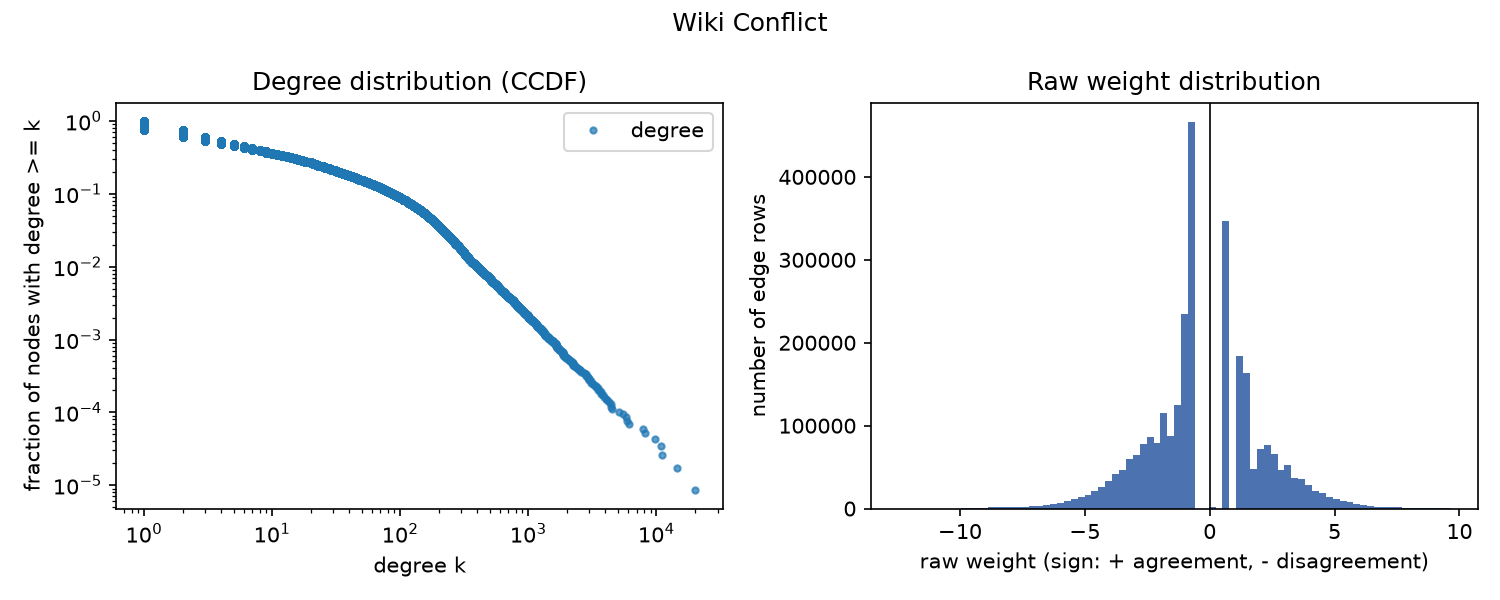
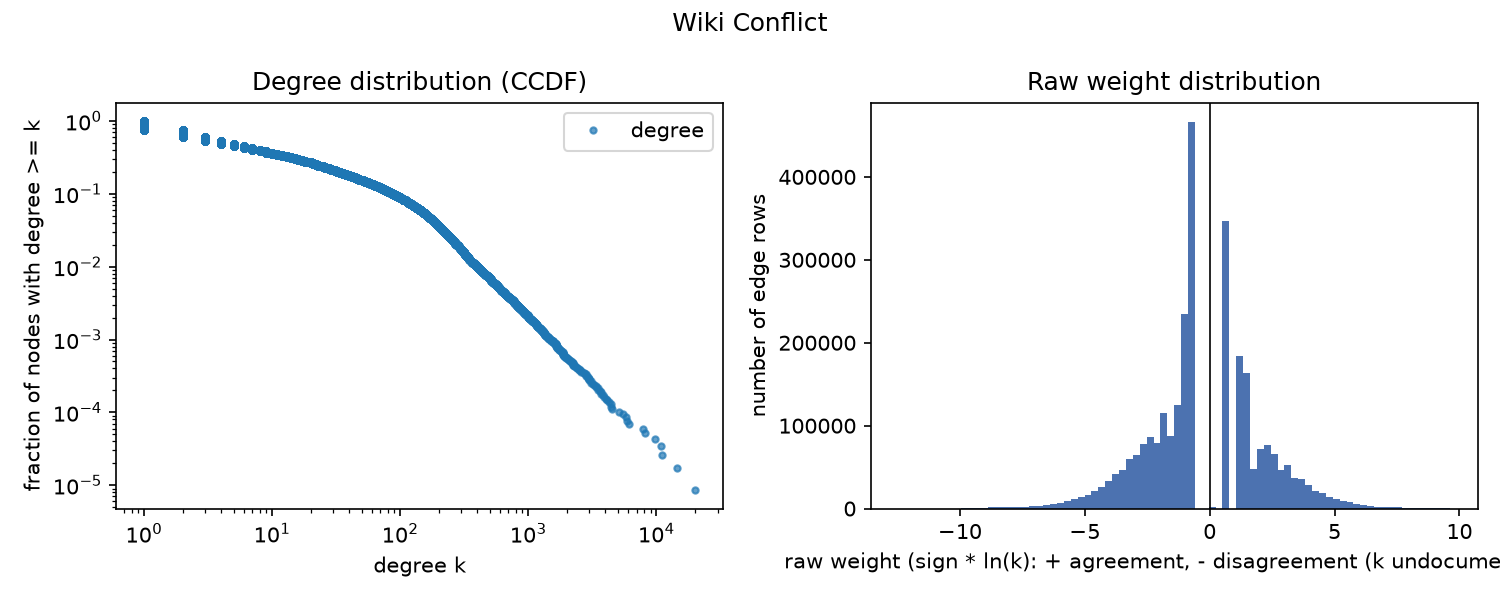
Phase 2: Slashdot Zoo loader, decisions D4/D4b (friends only, hops)
- Data from Netzschleuder CSV (same source graph-tool's collection.ns uses),
  read directly from the checksummed zip; SOURCES.md records why
- 4,497 mutual-foe pairs = negative 2-cycles, raw +-1 weights unusable
- D4: keep friend tags only, length 1, direction kept; D4b: drop users with
  no friend tags (79,120 -> 69,995)
- describe script: in-degree table for directed graphs, dataset-specific
  weight axis label; results for slashdot
- CLAUDE.md: verified scale for the two large datasets

Changed region(s): [[0.5213, 0.9, 1.0, 0.96]]

diff --git a/tests/test_preprocess.py b/tests/test_preprocess.py
@@ -4,8 +4,8 @@ import numpy as np
 import pytest
 
 from apsp.loaders import Dataset
-from apsp.preprocess import (drop_isolated, inverse_weights, load_processed, save_processed,
-                            undirected_hops)
+from apsp.preprocess import (drop_isolated, friends_only_hops, inverse_weights, load_processed,
+                            save_processed, undirected_hops)
 from apsp.scipy_tier import apsp_dijkstra_scipy, edges_to_csr
 
 
@@ -72,3 +72,17 @@ def test_hops_graph_runs_through_dijkstra_without_negative_weights():
     out = undirected_hops(drop_isolated(tiny_signed_undirected()))
     dist = apsp_dijkstra_scipy(edges_to_csr(out.n, list(zip(out.u, out.v, out.w))))
     assert dist[0].tolist() == [0, 1, 2, 3]  # 0 -1- 1 -1- 2 -1- 3
+
+
+# --- Slashdot decisions (D4, D4b) ------------------------------------------------------------------
+
+def test_friends_only_removes_foes_and_mutual_foe_cycle():
+    # 0 <-> 1 mutual foes (a negative 2-cycle), 1 -> 2 friend, 2 -> 3 friend, 3 -> 4 foe.
+    ds = Dataset("sd-mini", 5, u=np.array([0, 1, 1, 2, 3]), v=np.array([1, 0, 2, 3, 4]),
+                 w=np.array([-1.0, -1.0, 1.0, 1.0, -1.0]), directed=True, weight_meaning="+-1")
+    out = drop_isolated(friends_only_hops(ds))
+    # Only 1 -> 2 -> 3 survives; nodes 0 and 4 had only foe tags and are dropped (D4b).
+    assert out.n == 3 and out.directed and (out.w == 1).all()
+    dist = apsp_dijkstra_scipy(edges_to_csr(out.n, list(zip(out.u, out.v, out.w))))
+    assert dist[0].tolist() == [0, 1, 2]  # direction kept: forward chain reachable...
+    assert dist[2, 0] == np.inf  # ...but not backwards

diff --git a/src/apsp/loaders.py b/src/apsp/loaders.py
@@ -4,6 +4,7 @@ Turning raw weights into distances is a modeling decision (see CLAUDE.md, open d
 happens later, in preprocessing, never inside a loader.
 """
 
+import zipfile
 from dataclasses import dataclass
 from pathlib import Path
 
@@ -93,4 +94,27 @@ def load_wikiconflict(raw_dir=RAW_DIR):
         directed=False,
         weight_meaning="sign * ln(k): + agreement, - disagreement (k undocumented)",
         source="http://konect.cc/networks/wikiconflict",
+    )
+
+
+def load_slashdot(raw_dir=RAW_DIR):
+    """Slashdot Zoo friend/foe network (Netzschleuder slashdot_zoo = KONECT slashdot-zoo), RAW.
+
+    Directed: u -> v means "u tagged v". Weight +1 = friend, -1 = foe. Ids are already 0-based.
+    Read straight from the downloaded zip (its SHA-256 is in data/SOURCES.md), so the loader does
+    not depend on an unzipped copy.
+    """
+    path = Path(raw_dir) / "slashdot_zoo" / "slashdot_zoo.csv.zip"
+    with zipfile.ZipFile(path) as zf, zf.open("edges.csv") as f:
+        df = pd.read_csv(f, comment="#", header=None, names=["u", "v", "w"],
+                         dtype={"u": np.int64, "v": np.int64, "w": float})
+    return Dataset(
+        name="Slashdot Zoo",
+        n=79_120,  # Netzschleuder num_vertices; 4 ids have no edges
+        u=df["u"].to_numpy(),
+        v=df["v"].to_numpy(),
+        w=df["w"].to_numpy(),
+        directed=True,
+        weight_meaning="+1 friend, -1 foe",
+        source="https://networks.skewed.de/net/slashdot_zoo/files/slashdot_zoo.csv.zip",
     )

diff --git a/src/apsp/preprocess.py b/src/apsp/preprocess.py
@@ -8,7 +8,8 @@ from pathlib import Path
 
 import numpy as np
 
-from apsp.loaders import Dataset, compact_ids, load_usairport, load_wikiconflict
+from apsp.loaders import (Dataset, compact_ids, load_slashdot, load_usairport,
+                          load_wikiconflict)
 
 PROCESSED_DIR = Path(__file__).resolve().parents[2] / "data" / "processed"
 
@@ -47,6 +48,16 @@ def inverse_weights(ds):
     return replace(ds, w=1.0 / ds.w, weight_meaning=f"1 / ({ds.weight_meaning})")
 
 
+def friends_only_hops(ds):
+    """Decision D4: keep only positive ("friend") edges, each of length 1, direction kept.
+
+    Foe edges are removed entirely, so no negative weights (and no negative cycles) remain.
+    """
+    keep = ds.w > 0
+    return replace(ds, u=ds.u[keep], v=ds.v[keep], w=np.ones(int(keep.sum())),
+                   weight_meaning="hops along friend tags (foe tags removed)")
+
+
 def save_processed(ds, slug, folder=PROCESSED_DIR):
     """Save a processed Dataset as a compressed .npz (exact float64 values, fast to reload)."""
     folder = Path(folder)
@@ -74,6 +85,7 @@ def load_processed(slug, folder=PROCESSED_DIR):
 PIPELINES = {
     "usairport": (load_usairport, [inverse_weights]),  # D1
     "wikiconflict": (load_wikiconflict, [drop_isolated, undirected_hops]),  # D2b, then D2 + D3
+    "slashdot": (load_slashdot, [friends_only_hops, drop_isolated]),  # D4, then D4b
 }
 
 

diff --git a/scripts/describe_dataset.py b/scripts/describe_dataset.py
@@ -67,6 +67,12 @@ def describe_one(slug):
         table["negative share"] = [f"{share[i]:.0%}" for i in top]
     print("\nMost connected nodes:")
     print(table.to_string())
+    if ds.directed:
+        in_deg = np.bincount(adj.indices, minlength=ds.n)
+        top_in = np.argsort(-in_deg)[:10]
+        print("\nMost pointed-to nodes:")
+        print(pd.DataFrame({"node": names[top_in], "in-degree": in_deg[top_in]},
+                           index=range(1, 11)).to_string())
 
     # --- Figure ---------------------------------------------------------------------------------
     fig, axes = plt.subplots(1, 2, figsize=(10, 4))
@@ -85,7 +91,7 @@ def describe_one(slug):
     else:
         axes[1].hist(raw.w, bins=80, color="#4c72b0")
         axes[1].axvline(0, color="black", linewidth=0.8)
-        axes[1].set(xlabel="raw weight (sign: + agreement, - disagreement)")
+        axes[1].set(xlabel=f"raw weight ({raw.weight_meaning})")
     axes[1].set(ylabel="number of edge rows", title="Raw weight distribution")
     fig.suptitle(ds.name)
     fig.tight_layout()

diff --git a/tests/test_characteristics.py b/tests/test_characteristics.py
@@ -4,7 +4,8 @@ import numpy as np
 import pytest
 
 from apsp.characteristics import describe
-from apsp.loaders import RAW_DIR, Dataset, compact_ids, load_usairport, load_wikiconflict
+from apsp.loaders import (RAW_DIR, Dataset, compact_ids, load_slashdot, load_usairport,
+                          load_wikiconflict)
 
 
 def test_compact_ids_uses_first_appearance_order():
@@ -57,3 +58,11 @@ def test_wikiconflict_raw_counts():
     ds = load_wikiconflict()
     assert ds.n == 118_100 and len(ds.u) == 2_917_785  # matches KONECT website, not the stale header
     assert (ds.u < ds.v).all()  # each undirected pair stored once
+
+
+@pytest.mark.skipif(not (RAW_DIR / "slashdot_zoo" / "slashdot_zoo.csv.zip").exists(),
+                    reason="raw Slashdot Zoo data not downloaded")
+def test_slashdot_raw_counts():
+    ds = load_slashdot()
+    assert ds.n == 79_120 and len(ds.u) == 515_397  # Netzschleuder num_vertices / num_edges
+    assert set(np.unique(ds.w).tolist()) == {-1.0, 1.0}

diff --git a/docs/decisions.md b/docs/decisions.md
@@ -126,3 +126,61 @@ routes are not nodes).
 
 Under D2, any number of interactions between the same two editors (up to 562 for one pair) becomes
 **one** edge of length 1. The 2,917,785 interaction rows become 2,027,871 edges.
+
+---
+
+## D4. Slashdot Zoo: friends only, distance = hops (decided 2026-10-12)
+
+### What we chose
+Keep only **friend** tags (+1). Remove all **foe** tags (-1). Each friend tag "A -> B" becomes a
+one-way edge of length 1, **direction kept** (A calling B a friend does not mean B calls A a friend).
+The shortest path from A to B is the fewest "friend of a friend of ..." steps from A to B.
+
+### Plain-language explanation
+On Slashdot, users tag other users as **friend** or **foe**. In the raw data a friend tag is +1 and a
+foe tag is -1. We cannot use those numbers as distances:
+
+- **A foe tag is not a "negative distance".** Disliking someone does not bring you closer than zero.
+- **Negative loops exist.** 4,497 pairs of users tag *each other* as foes. Going A -> B -> A then
+  costs -1 + -1 = -2, and every extra lap lowers it further, so "shortest" has no answer. (Johnson's
+  algorithm, which handles some negative edges, needs the graph to have no negative loops, so it
+  does not apply.)
+
+We keep the friend tags because they have a clear meaning: a path is a chain of people who vouch
+for the next person, like "a friend of a friend of a friend". A short path means two users are
+close in the network of goodwill. Foe tags express the opposite, so they do not belong in a chain
+of friendships, and we leave them out.
+
+### Alternatives considered
+| Option | Why not chosen |
+|---|---|
+| Raw +1 / -1 weights | 4,497 negative 2-cycles, so shortest paths are undefined |
+| Hops on all tags, ignoring sign (the Wiki Conflict rule, D2) | treats "foe" as a connection like "friend"; the friend-only network has a clearer meaning |
+| Foes only | keeps just 24% of tags; "chains of hostility" are hard to interpret |
+
+### Consequences (must be discussed in the report)
+- **Different rule from Wiki Conflict.** Wiki Conflict (D2) keeps every interaction and ignores the
+  sign; Slashdot keeps only friend tags. The report should state this and the reason: in Slashdot
+  the sign marks the relationship itself (friend vs foe), while in Wiki Conflict both kinds of
+  interaction show that two editors worked on the same text.
+- **Smaller graph:** 123,218 foe tags removed (24% of edges), leaving 392,179 friend tags.
+- **Low reachability:** only 36.3% of ordered user pairs are connected by a chain of friend tags,
+  mostly because 41% of the remaining users never tagged anyone as a friend.
+- **All weights are 1,** so the BFS note from D2 applies: BFS would be the optimal single-source
+  algorithm, and we time genuine Dijkstra for a like-for-like comparison.
+- **Floyd-Warshall is infeasible:** a 69,995 x 69,995 table is about 36.5 GiB, more than the 24 GiB
+  of RAM on the benchmark machine.
+
+## D4b. Slashdot Zoo: drop users with no friend tags (decided 2026-10-12)
+
+The D2b rule (keep only nodes with at least one edge), applied **after** removing foe tags.
+4 users have no tags at all, and 9,121 users had only foe tags, so they have no edges left in the
+friend network. All 9,125 are dropped: **n = 79,120 -> 69,995**.
+
+*Plain language:* someone who only ever tagged (or was tagged by) foes has no friendship links, so
+they cannot appear in any friend chain. Keeping them would only add empty rows to the distance table.
+
+### Observation for the report (not a decision)
+The out-degree distribution drops sharply near 200 tags, and a handful of users sit at about 400
+(max 426). This looks like a **site limit** on how many users one person could tag. We have not found
+a source that confirms it.

diff --git a/CLAUDE.md b/CLAUDE.md
@@ -65,7 +65,7 @@ Add to this list as soon as a new case is found.
   the report is genuine Dijkstra.
 - Our pure FW skips the inner j loop when dist[i][k] is inf (same result, fewer operations on sparse
   reachability). Still Theta(n^3) in the worst case.
-- Unit-weight graphs (Wiki Conflict under D2): BFS would be the optimal single-source algorithm there.
+- Unit-weight graphs (Wiki Conflict under D2, Slashdot under D4): BFS would be the optimal single-source algorithm there.
   We deliberately time genuine Dijkstra anyway, to keep the comparison with FW like-for-like.
 - Undirected graphs are stored as two one-way edges per pair; m in complexity formulas = one-way count.
 - If Johnson's algorithm is ever used (negative edges, no negative cycles), it is Bellman-Ford +
@@ -79,8 +79,9 @@ Decided items are logged in `docs/decisions.md` (with a plain-language explanati
 
 - [x] Wiki Conflict: hops (all weights 1), one undirected edge per editor pair, isolated ids dropped
       (n = 116,836). D2, D2b, D3 in docs/decisions.md.
-- [ ] Slashdot Zoo (signed, DIRECTED): check for negative cycles first; candidates are hops (same as
-      Wiki Conflict, for consistency), positive-only, or Johnson's algorithm if no negative cycles.
+- [x] Slashdot Zoo: friends only, hops, direction kept; users without friend tags dropped
+      (n = 69,995). 4,497 mutual-foe pairs = negative 2-cycles, so raw weights were unusable.
+      D4, D4b in docs/decisions.md.
 - [x] US Airports: distance = 1 / passengers; nodes = the 1,574 airports with routes (D1 in docs/decisions.md).
 - [ ] Strength-type weights (Advogato, Adolescent Health): raw, 1/w, -log w, or unweighted?
 - [ ] Directed vs undirected treatment per dataset (keep native direction unless decided otherwise).
@@ -122,8 +123,8 @@ requirements-lock.txt  exact installed versions (what we actually ran; from `pip
   extensions allocate outside Python's tracker.
 - `resource.getrusage(...).ru_maxrss` is in BYTES on macOS but KiB on Linux. Normalize by platform.
   psutil does not expose peak RSS on macOS; use it for total RAM (`psutil.virtual_memory().total`) instead.
-- Expected scale (verify in Phase 2): Slashdot Zoo ~79k nodes, Wiki Conflict ~118k nodes. A dense n×n
-  float64 matrix is then ~50–110 GB, so FW is infeasible there and Dijkstra must stream
+- Verified scale (processed): Slashdot n = 69,995 (n×n float64 = 36.5 GiB), Wiki Conflict n = 116,836
+  (101.7 GiB). Benchmark machine has 24 GiB, so FW is infeasible on both and Dijkstra must stream
   (e.g. batches of sources via the `indices=` argument of `csgraph.dijkstra`).
 
 ## Commands

diff --git a/data/SOURCES.md b/data/SOURCES.md
@@ -47,3 +47,28 @@ Notes (verified 2026-10-12):
   on KONECT or Netzschleuder. Original study: Brandes, Kenis, Lerner, van Raaij (2009), "Network
   Analysis of Collaboration Structure in Wikipedia", WWW 2009, pp. 731-740.
 - **Zero weights:** 0.1% of rows have w = 0 (k = 1, ln 1 = 0), so their sign is lost.
+
+## Slashdot Zoo (`data/raw/slashdot_zoo/`)
+
+The user pointed to graph-tool's `gt.collection.ns["slashdot_zoo"]`. That call downloads from
+Netzschleuder, so we downloaded the same network directly from Netzschleuder as CSV instead of
+installing graph-tool (which is not pip-installable). Same data, pure-pip environment.
+
+| File | Source | SHA-256 |
+|---|---|---|
[4 lines of base64/hex data omitted]
+
+Metadata: https://networks.skewed.de/api/net/slashdot_zoo. Original: KONECT slashdot-zoo;
+J. Kunegis, A. Lommatzsch, C. Bauckhage (2009), "The Slashdot Zoo: Mining a Social Network with
+Negative Edges", WWW 2009, pp. 741-750.
+
+Notes (verified 2026-10-12):
+- **Directed:** A -> B means "A marked B". Ids are already 0-based, 0..79,119.
+- **Size:** 515,397 rows, matching Netzschleuder's num_edges. No self-loops, no duplicate rows.
+- **Weights:** +1 = friend (392,179 rows), -1 = foe (123,218 rows).
+- **Nodes:** 79,120 ids; 79,116 appear in an edge (4 have no edges).
+- **Negative cycles:** 4,497 pairs of users mark each other as foes. Each is a negative 2-cycle
+  (-1 + -1 = -2), so with raw weights as distances, shortest paths are undefined.
